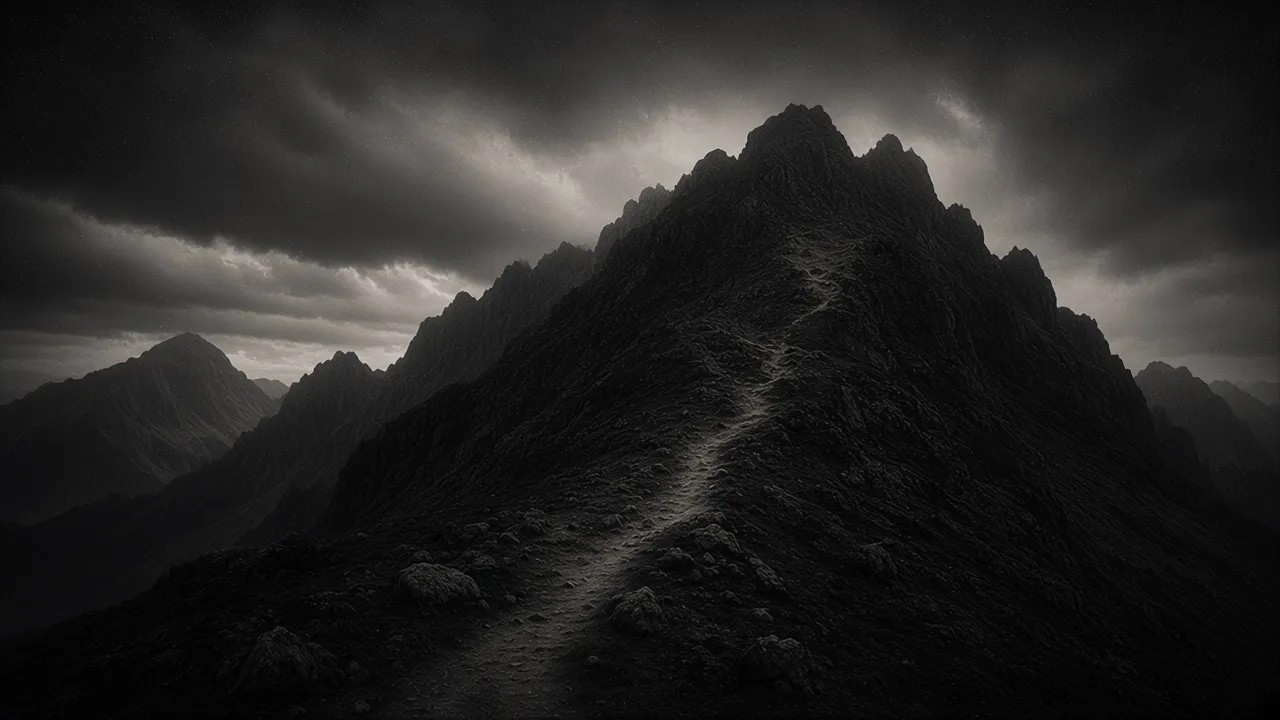
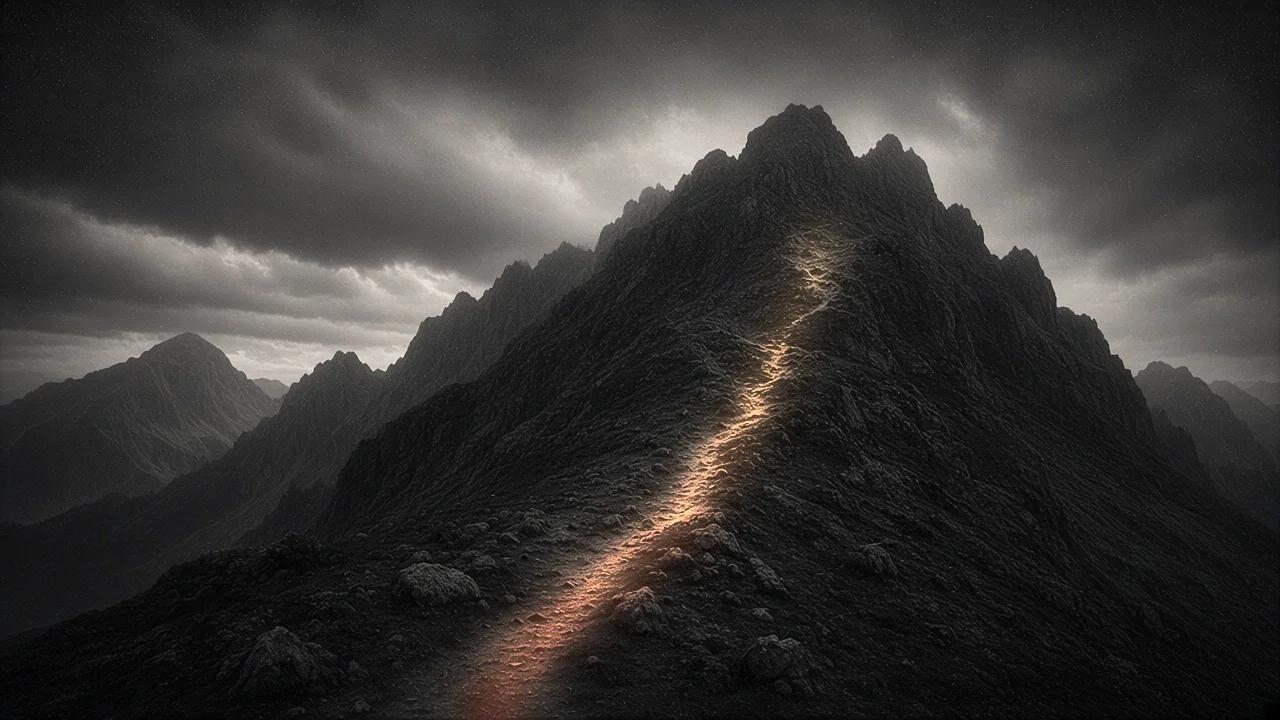
System explainer: Ember-to-gold lit trail on ridge image, lifted exposure, image band so the trail stays visible above cards

Changed region(s): [[0.0, 0.0306, 1.0, 0.6417], [0.3438, 0.275, 0.6875, 1.0], [0.3438, 0.7944, 0.375, 0.825]]

diff --git a/app/components/landing/SystemExplainer.vue b/app/components/landing/SystemExplainer.vue
@@ -1,7 +1,7 @@
 <template>
   <section id="what-is-grhiit" class="relative overflow-hidden bg-graphite py-28 md:py-40">
-    <img src="/images/sections/ridge-path.webp" alt="" class="absolute inset-x-0 top-0 w-full h-[70%] object-cover object-[60%_45%] opacity-60" loading="lazy" />
-    <div class="absolute inset-0 bg-gradient-to-b from-graphite/40 via-graphite/80 to-graphite"></div>
+    <img src="/images/sections/ridge-path.webp" alt="" class="ridge-img" loading="lazy" />
+    <div class="ridge-shade"></div>
 
     <div class="relative z-10 max-w-6xl mx-auto px-6 md:px-12">
       <h2 class="font-display uppercase text-bone leading-brutal tracking-wide text-5xl md:text-7xl">
@@ -11,7 +11,8 @@
         18 Sessions. 3 per week. Bodyweight. No negotiation.
       </p>
 
-      <div class="mt-16 grid sm:grid-cols-2 gap-px bg-iron">
+      <div class="ridge-spacer" aria-hidden="true"></div>
+      <div class="grid sm:grid-cols-2 gap-px bg-iron">
         <div v-for="(f, i) in features" :key="f.title" class="bg-graphite/95 p-8">
           <span class="font-mono text-xs text-ember">0{{ i + 1 }}</span>
           <h3 class="mt-3 font-display uppercase tracking-wide text-2xl text-bone">{{ f.title }}</h3>
@@ -34,3 +35,16 @@ const features = [
   { title: 'Forward only', body: 'No Session repeats. Miss one, it is gone. The next awaits.' },
 ]
 </script>
+
+<style scoped>
+/* Lit trail stays visible: image is a top band at its natural ratio, faded into Graphite; cards start below the trail's climb */
+.ridge-img { position: absolute; top: 0; left: 0; width: 100%; height: 62svh; object-fit: cover; object-position: 58% 60%;
+  -webkit-mask-image: linear-gradient(to bottom, #000 70%, transparent 100%); mask-image: linear-gradient(to bottom, #000 70%, transparent 100%); }
+.ridge-shade { position: absolute; inset: 0 0 auto 0; height: 62svh; background: linear-gradient(to bottom, rgba(20,20,20,.55), rgba(20,20,20,.1) 45%, transparent); }
+.ridge-spacer { height: 14svh; }
+@media (min-width: 768px) {
+  .ridge-img { height: auto; aspect-ratio: 16 / 9; max-height: 100%; object-position: 50% 50%; }
+  .ridge-shade { height: auto; aspect-ratio: 16 / 9; background: linear-gradient(to right, rgba(20,20,20,.7), rgba(20,20,20,.15) 45%, transparent 70%); }
+  .ridge-spacer { height: clamp(6rem, 18vw, 22rem); }
+}
+</style>
